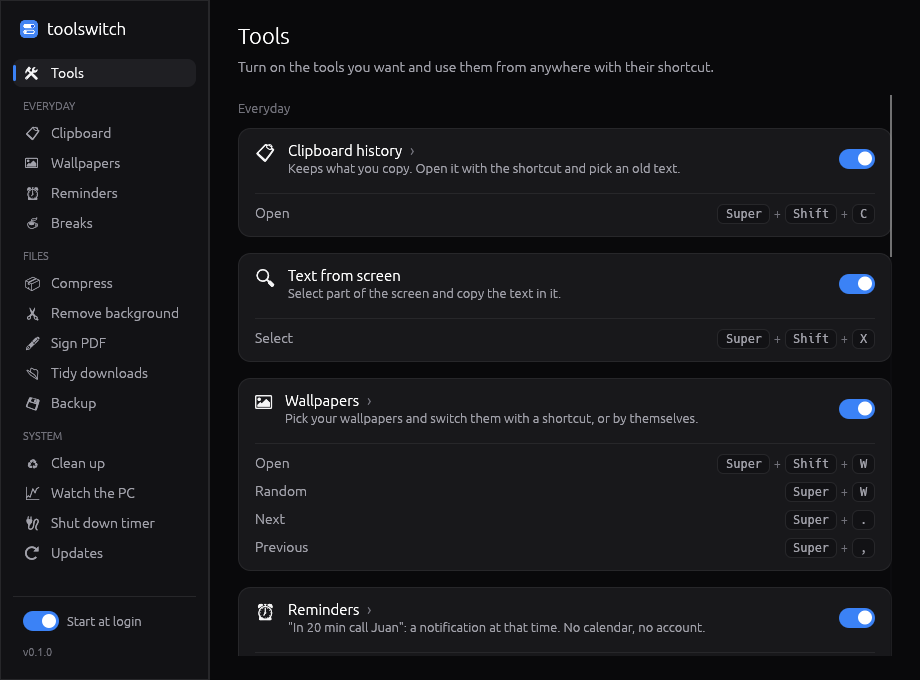
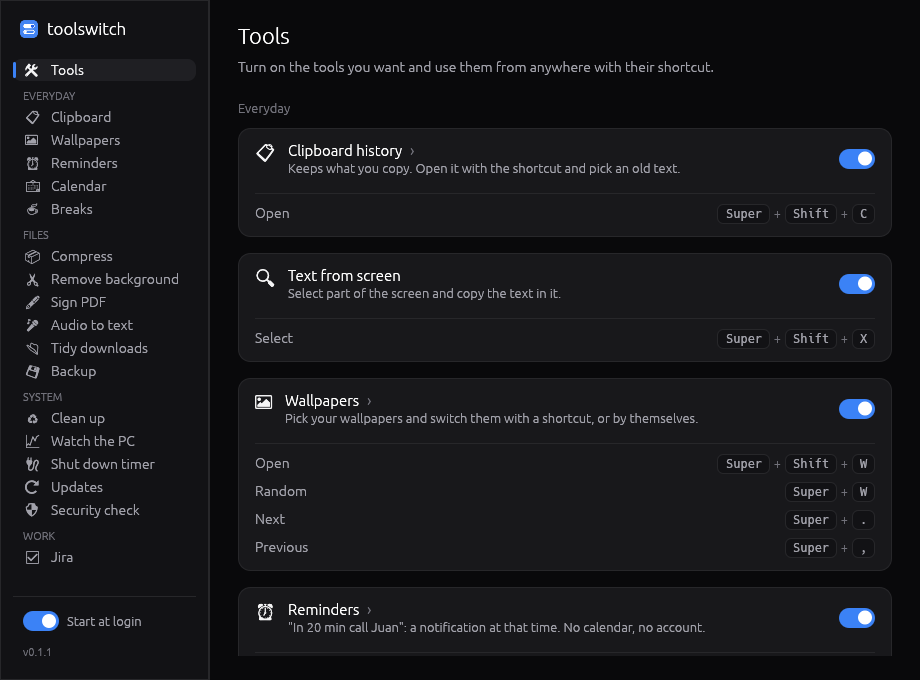
toolswitch 0.1.2: 18 tools (calendar, audio to text, security check, Jira)

Changed region(s): [[0.0304, 0.0926, 0.1826, 0.8338]]

diff --git a/toolswitch/index.html b/toolswitch/index.html
@@ -3,30 +3,30 @@
 <head>
 <meta charset="utf-8">
 <meta name="viewport" content="width=device-width, initial-scale=1">
-<title>toolswitch — 14 free everyday tools in one tiny app for Windows, Mac and Linux</title>
-<meta name="description" content="Free desktop app with 14 everyday tools: clipboard history, text from screen (OCR), wallpaper changer, reminders, breaks, image and PDF compressor, background remover, PDF signing, tidy downloads, backup, clean up, PC monitor, shut down timer and updates. Offline, no account. Windows, macOS and Linux.">
+<title>toolswitch — 18 free everyday tools in one tiny app for Windows, Mac and Linux</title>
+<meta name="description" content="Free desktop app with 18 everyday tools: clipboard history, text from screen (OCR), wallpaper changer, reminders, Google Calendar, breaks, image and PDF compressor, background remover, PDF signing, audio to text, tidy downloads, backup, clean up, PC monitor, shut down timer, updates, security check and Jira. Offline, no account. Windows, macOS and Linux.">
 <link rel="canonical" href="https://berchj.github.io/toolswitch/">
 <meta name="google-site-verification" content="UphS3aDveMRVv07rEHt7og08iggwHPVThZJLNYE1Gpw">
 <meta property="og:type" content="website">
-<meta property="og:title" content="toolswitch — 14 free everyday tools in one tiny app for Windows, Mac and Linux">
-<meta property="og:description" content="Free desktop app with 14 everyday tools: clipboard history, text from screen (OCR), wallpaper changer, reminders, breaks, image and PDF compressor, background remover, PDF signing, tidy downloads, backup, clean up, PC monitor, shut down timer and updates. Offline, no account. Windows, macOS and Linux.">
+<meta property="og:title" content="toolswitch — 18 free everyday tools in one tiny app for Windows, Mac and Linux">
+<meta property="og:description" content="Free desktop app with 18 everyday tools: clipboard history, text from screen (OCR), wallpaper changer, reminders, Google Calendar, breaks, image and PDF compressor, background remover, PDF signing, audio to text, tidy downloads, backup, clean up, PC monitor, shut down timer, updates, security check and Jira. Offline, no account. Windows, macOS and Linux.">
 <meta property="og:url" content="https://berchj.github.io/toolswitch/">
 <meta property="og:image" content="https://berchj.github.io/img/toolswitch-social.png">
 <meta name="twitter:card" content="summary_large_image">
 <link rel="icon" href="/img/toolswitch-64.png">
 <link rel="stylesheet" href="/style.css">
 <script>try{const t=localStorage.getItem("theme");if(t)document.documentElement.dataset.theme=t}catch{}</script>
-<script type="application/ld+json">{"@context": "https://schema.org", "@type": "SoftwareApplication", "name": "toolswitch", "description": "Free desktop app with 14 everyday tools: clipboard history, text from screen (OCR), wallpaper changer, reminders, breaks, image and PDF compressor, background remover, PDF signing, tidy downloads, backup, clean up, PC monitor, shut down timer and updates. Offline, no account. Windows, macOS and Linux.", "applicationCategory": "UtilitiesApplication", "operatingSystem": "Windows 10, Windows 11, macOS, Linux, Ubuntu", "offers": {"@type": "Offer", "price": "0", "priceCurrency": "USD"}, "downloadUrl": "https://github.com/berchj/toolswitch-releases/releases/latest", "installUrl": "https://github.com/berchj/toolswitch-releases/releases/latest", "url": "https://berchj.github.io/toolswitch/", "image": "https://berchj.github.io/img/toolswitch-icon.png", "screenshot": "https://berchj.github.io/img/toolswitch-screenshot.png", "isAccessibleForFree": true, "author": {"@type": "Person", "name": "berchj", "url": "https://github.com/berchj"}, "keywords": "powertoys alternative, desktop utilities, clipboard history, screen ocr, wallpaper changer, compress pdf offline, remove background offline, sign pdf, pomodoro timer, shutdown timer, linux utilities, windows utilities, mac utilities"}</script>
-<script type="application/ld+json">{"@context": "https://schema.org", "@type": "FAQPage", "mainEntity": [{"@type": "Question", "name": "What is toolswitch?", "acceptedAnswer": {"@type": "Answer", "text": "A small desktop app with 14 everyday tools — clipboard history, screen OCR, wallpapers, reminders, breaks, file compressor, background remover, PDF signing, tidy downloads, backup, clean up, PC monitor, shut down timer and updates — that waits in your tray."}}, {"@type": "Question", "name": "Is it like Microsoft PowerToys?", "acceptedAnswer": {"@type": "Answer", "text": "It’s in the same spirit, but it works the same on Windows, macOS and Linux, and it focuses on everyday tasks instead of developer tools."}}, {"@type": "Question", "name": "Does it upload my files or what I copy?", "acceptedAnswer": {"@type": "Answer", "text": "No. Everything runs on your computer. The AI models for text from screen and background removal are downloaded once and then work offline."}}, {"@type": "Question", "name": "How heavy is it?", "acceptedAnswer": {"@type": "Answer", "text": "The program is about 15 MB and uses about 90 MB of memory and almost no processor while it waits in the tray. A tool that’s off does nothing at all."}}, {"@type": "Question", "name": "Can I use only some of the tools?", "acceptedAnswer": {"@type": "Answer", "text": "Yes. Each tool has its own switch; the ones you turn off don’t run."}}, {"@type": "Question", "name": "Is toolswitch free?", "acceptedAnswer": {"@type": "Answer", "text": "Yes, it’s free to download and use. No account, no ads."}}]}</script>
+<script type="application/ld+json">{"@context": "https://schema.org", "@type": "SoftwareApplication", "name": "toolswitch", "description": "Free desktop app with 18 everyday tools: clipboard history, text from screen (OCR), wallpaper changer, reminders, Google Calendar, breaks, image and PDF compressor, background remover, PDF signing, audio to text, tidy downloads, backup, clean up, PC monitor, shut down timer, updates, security check and Jira. Offline, no account. Windows, macOS and Linux.", "applicationCategory": "UtilitiesApplication", "operatingSystem": "Windows 10, Windows 11, macOS, Linux, Ubuntu", "offers": {"@type": "Offer", "price": "0", "priceCurrency": "USD"}, "downloadUrl": "https://github.com/berchj/toolswitch-releases/releases/latest", "installUrl": "https://github.com/berchj/toolswitch-releases/releases/latest", "url": "https://berchj.github.io/toolswitch/", "image": "https://berchj.github.io/img/toolswitch-icon.png", "screenshot": "https://berchj.github.io/img/toolswitch-screenshot.png", "isAccessibleForFree": true, "author": {"@type": "Person", "name": "berchj", "url": "https://github.com/berchj"}, "keywords": "powertoys alternative, desktop utilities, clipboard history, screen ocr, wallpaper changer, compress pdf offline, remove background offline, sign pdf, pomodoro timer, shutdown timer, linux utilities, windows utilities, mac utilities"}</script>
+<script type="application/ld+json">{"@context": "https://schema.org", "@type": "FAQPage", "mainEntity": [{"@type": "Question", "name": "What is toolswitch?", "acceptedAnswer": {"@type": "Answer", "text": "A small desktop app with 18 everyday tools — clipboard history, screen OCR, wallpapers, reminders, Google Calendar, breaks, file compressor, background remover, PDF signing, audio to text, tidy downloads, backup, clean up, PC monitor, shut down timer, updates, security check and Jira — that waits in your tray."}}, {"@type": "Question", "name": "Is it like Microsoft PowerToys?", "acceptedAnswer": {"@type": "Answer", "text": "It’s in the same spirit, but it works the same on Windows, macOS and Linux, and it focuses on everyday tasks instead of developer tools."}}, {"@type": "Question", "name": "Does it upload my files or what I copy?", "acceptedAnswer": {"@type": "Answer", "text": "No. Everything runs on your computer. The AI models for text from screen, background removal and audio to text are downloaded once and then work offline. Only Calendar and Jira talk to Google and Atlassian, and Security check to Anthropic’s Claude if you add a key — and only when you connect them."}}, {"@type": "Question", "name": "How heavy is it?", "acceptedAnswer": {"@type": "Answer", "text": "The program is about 15 MB and uses about 90 MB of memory and almost no processor while it waits in the tray. A tool that’s off does nothing at all."}}, {"@type": "Question", "name": "Can I use only some of the tools?", "acceptedAnswer": {"@type": "Answer", "text": "Yes. Each tool has its own switch; the ones you turn off don’t run."}}, {"@type": "Question", "name": "Is toolswitch free?", "acceptedAnswer": {"@type": "Answer", "text": "Yes, it’s free to download and use. No account, no ads."}}]}</script>
 <meta name="keywords" content="powertoys alternative, desktop utilities, clipboard history, screen ocr, wallpaper changer, compress pdf offline, remove background offline, sign pdf, pomodoro timer, shutdown timer, linux utilities, windows utilities, mac utilities">
 </head>
 <body class="toolswitch">
-<nav><div class="wrap"><a class="home" href="/"><img src="/img/toolswitch-64.png" alt="">toolswitch</a><a href="/toolswitch/" aria-current=page>The 14 tools</a><a href="https://github.com/berchj/toolswitch-releases/releases/latest">Download</a></div></nav>
+<nav><div class="wrap"><a class="home" href="/"><img src="/img/toolswitch-64.png" alt="">toolswitch</a><a href="/toolswitch/" aria-current=page>The 18 tools</a><a href="https://github.com/berchj/toolswitch-releases/releases/latest">Download</a></div></nav>
 <main>
 <div class="hero wrap">
 <img class="icon" src="/img/toolswitch-icon.png" alt="toolswitch icon" width="96" height="96">
 <h1>toolswitch</h1>
-<p class="tagline">14 everyday tools in <strong>one tiny app</strong> that waits in your tray. Turn on the ones you want and use them from anywhere with a shortcut.</p>
+<p class="tagline">18 everyday tools in <strong>one tiny app</strong> that waits in your tray. Turn on the ones you want and use them from anywhere with a shortcut.</p>
 <div class="download" data-repo="berchj/toolswitch-releases">
 <a class="btn" href="https://github.com/berchj/toolswitch-releases/releases/latest">⬇ <span>Download toolswitch</span></a>
 <div class="others"><a href="https://github.com/berchj/toolswitch-releases/releases/latest">Windows, macOS and Linux</a></div>
@@ -36,8 +36,8 @@
 </div>
 
 <section class="wrap">
-<h2>14 tools, one app</h2>
-<div class="grid"><div class="card"><div class="emoji">📋</div><h3>Clipboard history</h3><p>Everything you copy, text and images, one shortcut away. Search it and pin favorites.</p></div><div class="card"><div class="emoji">🔍</div><h3>Text from screen</h3><p>Select part of the screen and copy the text in it (OCR, letters without accents for now).</p></div><div class="card"><div class="emoji">🖼</div><h3>Wallpapers</h3><p>Pick your wallpapers and switch them with a shortcut or every few minutes.</p></div><div class="card"><div class="emoji">⏰</div><h3>Reminders</h3><p>Write “in 20 min call Juan” and get a notification then. No calendar, no account.</p></div><div class="card"><div class="emoji">☕</div><h3>Breaks</h3><p>Rest your eyes every 20 minutes (20-20-20), or work with a Pomodoro timer.</p></div><div class="card"><div class="emoji">📦</div><h3>Compress files</h3><p>Smaller JPG, PNG, PDF, Word, PowerPoint and Excel files. Your originals stay untouched.</p></div><div class="card"><div class="emoji">✂</div><h3>Remove background</h3><p>Transparent PNG of any photo, with an AI model that runs on your computer.</p></div><div class="card"><div class="emoji">✒</div><h3>Sign PDF</h3><p>Draw your signature once and put it on PDFs without printing them.</p></div><div class="card"><div class="emoji">📂</div><h3>Tidy downloads</h3><p>Moves what you download to its folder by type, by itself. Every move can be undone.</p></div><div class="card"><div class="emoji">💾</div><h3>Backup</h3><p>Copies the folders you pick to another disk every day. Only what changed.</p></div><div class="card"><div class="emoji">♻</div><h3>Clean up</h3><p>Shows what takes space — trash, caches, old downloads, big files — and frees it.</p></div><div class="card"><div class="emoji">📈</div><h3>Watch the PC</h3><p>Warns when a disk is almost full or a program gets stuck eating the processor or memory.</p></div><div class="card"><div class="emoji">🔌</div><h3>Shut down timer</h3><p>Shut down, restart or sleep later, at a time, or when the downloads finish.</p></div><div class="card"><div class="emoji">⟳</div><h3>Updates</h3><p>Updates the system and your apps with one click, and tells you when there’s something new.</p></div></div>
+<h2>18 tools, one app</h2>
+<div class="grid"><div class="card"><div class="emoji">📋</div><h3>Clipboard history</h3><p>Everything you copy, text and images, one shortcut away. Search it and pin favorites.</p></div><div class="card"><div class="emoji">🔍</div><h3>Text from screen</h3><p>Select part of the screen and copy the text in it (OCR). Reads accents and ñ, in 30+ languages.</p></div><div class="card"><div class="emoji">🖼</div><h3>Wallpapers</h3><p>Pick your wallpapers and switch them with a shortcut or every few minutes.</p></div><div class="card"><div class="emoji">⏰</div><h3>Reminders</h3><p>Write “in 20 min call Juan” and get a notification then. No calendar, no account.</p></div><div class="card"><div class="emoji">📅</div><h3>Calendar</h3><p>Your Google Calendar: today’s events, new ones with guests, and a heads-up 10 minutes before each.</p></div><div class="card"><div class="emoji">☕</div><h3>Breaks</h3><p>Rest your eyes every 20 minutes (20-20-20), or work with a Pomodoro timer.</p></div><div class="card"><div class="emoji">📦</div><h3>Compress files</h3><p>Smaller JPG, PNG, PDF, Word, PowerPoint and Excel files. Your originals stay untouched.</p></div><div class="card"><div class="emoji">✂</div><h3>Remove background</h3><p>Transparent PNG of any photo, with an AI model that runs on your computer.</p></div><div class="card"><div class="emoji">✒</div><h3>Sign PDF</h3><p>Draw your signature once, drag it to its place on the page and sign PDFs without printing them.</p></div><div class="card"><div class="emoji">🎤</div><h3>Audio to text</h3><p>Voice notes, recordings and videos into text, offline, in ~100 languages (Whisper).</p></div><div class="card"><div class="emoji">📂</div><h3>Tidy downloads</h3><p>Moves what you download to its folder by type, by itself. Every move can be undone.</p></div><div class="card"><div class="emoji">💾</div><h3>Backup</h3><p>Copies the folders you pick to another disk every day. Only what changed.</p></div><div class="card"><div class="emoji">♻</div><h3>Clean up</h3><p>Shows what takes space — trash, caches, old downloads, big files — and frees it.</p></div><div class="card"><div class="emoji">📈</div><h3>Watch the PC</h3><p>Warns when a disk is almost full or a program gets stuck eating the processor or memory.</p></div><div class="card"><div class="emoji">🔌</div><h3>Shut down timer</h3><p>Shut down, restart or sleep later, at a time, or when the downloads finish.</p></div><div class="card"><div class="emoji">🛡</div><h3>Security check</h3><p>Finds what’s risky in how your computer is set up — firewall, open ports, updates, encryption — and how to fix it. Claude can write the plan.</p></div><div class="card"><div class="emoji">☑</div><h3>Jira</h3><p>The Jira issues assigned to you, and a heads-up when you get a new one.</p></div><div class="card"><div class="emoji">⟳</div><h3>Updates</h3><p>Updates the system and your apps with one click, and tells you when there’s something new.</p></div></div>
 </section>
 
 <section class="wrap">
@@ -48,7 +48,7 @@
 
 <section class="wrap">
 <h2>Questions</h2>
-<details><summary>What is toolswitch?</summary><p>A small desktop app with 14 everyday tools — clipboard history, screen OCR, wallpapers, reminders, breaks, file compressor, background remover, PDF signing, tidy downloads, backup, clean up, PC monitor, shut down timer and updates — that waits in your tray.</p></details><details><summary>Is it like Microsoft PowerToys?</summary><p>It’s in the same spirit, but it works the same on Windows, macOS and Linux, and it focuses on everyday tasks instead of developer tools.</p></details><details><summary>Does it upload my files or what I copy?</summary><p>No. Everything runs on your computer. The AI models for text from screen and background removal are downloaded once and then work offline.</p></details><details><summary>How heavy is it?</summary><p>The program is about 15 MB and uses about 90 MB of memory and almost no processor while it waits in the tray. A tool that’s off does nothing at all.</p></details><details><summary>Can I use only some of the tools?</summary><p>Yes. Each tool has its own switch; the ones you turn off don’t run.</p></details><details><summary>Is toolswitch free?</summary><p>Yes, it’s free to download and use. No account, no ads.</p></details>
+<details><summary>What is toolswitch?</summary><p>A small desktop app with 18 everyday tools — clipboard history, screen OCR, wallpapers, reminders, Google Calendar, breaks, file compressor, background remover, PDF signing, audio to text, tidy downloads, backup, clean up, PC monitor, shut down timer, updates, security check and Jira — that waits in your tray.</p></details><details><summary>Is it like Microsoft PowerToys?</summary><p>It’s in the same spirit, but it works the same on Windows, macOS and Linux, and it focuses on everyday tasks instead of developer tools.</p></details><details><summary>Does it upload my files or what I copy?</summary><p>No. Everything runs on your computer. The AI models for text from screen, background removal and audio to text are downloaded once and then work offline. Only Calendar and Jira talk to Google and Atlassian, and Security check to Anthropic’s Claude if you add a key — and only when you connect them.</p></details><details><summary>How heavy is it?</summary><p>The program is about 15 MB and uses about 90 MB of memory and almost no processor while it waits in the tray. A tool that’s off does nothing at all.</p></details><details><summary>Can I use only some of the tools?</summary><p>Yes. Each tool has its own switch; the ones you turn off don’t run.</p></details><details><summary>Is toolswitch free?</summary><p>Yes, it’s free to download and use. No account, no ads.</p></details>
 </section>
 
 </main>

diff --git a/index.html b/index.html
@@ -3,13 +3,13 @@
 <head>
 <meta charset="utf-8">
 <meta name="viewport" content="width=device-width, initial-scale=1">
-<title>toolswitch — 14 free everyday tools in one app for Windows, Mac and Linux</title>
-<meta name="description" content="Free desktop app with 14 everyday tools: clipboard history, text from screen (OCR), wallpaper changer, reminders, breaks, image and PDF compressor, background remover, PDF signing, tidy downloads, backup, clean up, PC monitor, shut down timer and updates. Offline, no account. Windows, macOS and Linux.">
+<title>toolswitch — 18 free everyday tools in one app for Windows, Mac and Linux</title>
+<meta name="description" content="Free desktop app with 18 everyday tools: clipboard history, text from screen (OCR), wallpaper changer, reminders, Google Calendar, breaks, image and PDF compressor, background remover, PDF signing, audio to text, tidy downloads, backup, clean up, PC monitor, shut down timer, updates, security check and Jira. Offline, no account. Windows, macOS and Linux.">
 <link rel="canonical" href="https://berchj.github.io/">
 <meta name="google-site-verification" content="UphS3aDveMRVv07rEHt7og08iggwHPVThZJLNYE1Gpw">
 <meta property="og:type" content="website">
-<meta property="og:title" content="toolswitch — 14 free everyday tools in one app for Windows, Mac and Linux">
-<meta property="og:description" content="Free desktop app with 14 everyday tools: clipboard history, text from screen (OCR), wallpaper changer, reminders, breaks, image and PDF compressor, background remover, PDF signing, tidy downloads, backup, clean up, PC monitor, shut down timer and updates. Offline, no account. Windows, macOS and Linux.">
+<meta property="og:title" content="toolswitch — 18 free everyday tools in one app for Windows, Mac and Linux">
+<meta property="og:description" content="Free desktop app with 18 everyday tools: clipboard history, text from screen (OCR), wallpaper changer, reminders, Google Calendar, breaks, image and PDF compressor, background remover, PDF signing, audio to text, tidy downloads, backup, clean up, PC monitor, shut down timer, updates, security check and Jira. Offline, no account. Windows, macOS and Linux.">
 <meta property="og:url" content="https://berchj.github.io/">
 <meta property="og:image" content="https://berchj.github.io/img/toolswitch-social.png">
 <meta name="twitter:card" content="summary_large_image">
@@ -19,21 +19,21 @@
 <script type="application/ld+json">{"@context": "https://schema.org", "@type": "ItemList", "name": "toolswitch", "itemListElement": [{"@type": "ListItem", "position": 1, "url": "https://berchj.github.io/toolswitch/", "name": "toolswitch"}]}</script>
 </head>
 <body class="toolswitch">
-<nav><div class="wrap"><a class="home" href="/"><img src="/img/toolswitch-64.png" alt="">toolswitch</a><a href="/toolswitch/">The 14 tools</a><a href="https://github.com/berchj/toolswitch-releases/releases/latest">Download</a></div></nav>
+<nav><div class="wrap"><a class="home" href="/"><img src="/img/toolswitch-64.png" alt="">toolswitch</a><a href="/toolswitch/">The 18 tools</a><a href="https://github.com/berchj/toolswitch-releases/releases/latest">Download</a></div></nav>
 <main>
 <div class="hero wrap">
 <img class="icon" src="/img/toolswitch-icon.png" alt="toolswitch icon" width="96" height="96">
 <h1>toolswitch</h1>
-<p class="tagline">14 everyday tools in <strong>one tiny app</strong> that waits in your tray. Turn on the ones you want and use them from anywhere with a shortcut.</p>
+<p class="tagline">18 everyday tools in <strong>one tiny app</strong> that waits in your tray. Turn on the ones you want and use them from anywhere with a shortcut.</p>
 <div class="download" data-repo="berchj/toolswitch-releases">
 <a class="btn" href="https://github.com/berchj/toolswitch-releases/releases/latest">⬇ <span>Download toolswitch</span></a>
 <div class="others"><a href="https://github.com/berchj/toolswitch-releases/releases/latest">Windows, macOS and Linux</a></div>
 <div class="npm version">Free · no account · no ads</div>
 </div>
-<p><a href="/toolswitch/">See the 14 tools →</a></p>
+<p><a href="/toolswitch/">See the 18 tools →</a></p>
 </div>
 <section class="wrap">
-<div class="grid"><div class="card"><div class="emoji">📋</div><h3>Clipboard history</h3><p>Everything you copy, text and images, one shortcut away. Search it and pin favorites.</p></div><div class="card"><div class="emoji">🔍</div><h3>Text from screen</h3><p>Select part of the screen and copy the text in it (OCR, letters without accents for now).</p></div><div class="card"><div class="emoji">🖼</div><h3>Wallpapers</h3><p>Pick your wallpapers and switch them with a shortcut or every few minutes.</p></div><div class="card"><div class="emoji">⏰</div><h3>Reminders</h3><p>Write “in 20 min call Juan” and get a notification then. No calendar, no account.</p></div><div class="card"><div class="emoji">☕</div><h3>Breaks</h3><p>Rest your eyes every 20 minutes (20-20-20), or work with a Pomodoro timer.</p></div><div class="card"><div class="emoji">📦</div><h3>Compress files</h3><p>Smaller JPG, PNG, PDF, Word, PowerPoint and Excel files. Your originals stay untouched.</p></div><div class="card"><div class="emoji">✂</div><h3>Remove background</h3><p>Transparent PNG of any photo, with an AI model that runs on your computer.</p></div><div class="card"><div class="emoji">✒</div><h3>Sign PDF</h3><p>Draw your signature once and put it on PDFs without printing them.</p></div><div class="card"><div class="emoji">📂</div><h3>Tidy downloads</h3><p>Moves what you download to its folder by type, by itself. Every move can be undone.</p></div><div class="card"><div class="emoji">💾</div><h3>Backup</h3><p>Copies the folders you pick to another disk every day. Only what changed.</p></div><div class="card"><div class="emoji">♻</div><h3>Clean up</h3><p>Shows what takes space — trash, caches, old downloads, big files — and frees it.</p></div><div class="card"><div class="emoji">📈</div><h3>Watch the PC</h3><p>Warns when a disk is almost full or a program gets stuck eating the processor or memory.</p></div><div class="card"><div class="emoji">🔌</div><h3>Shut down timer</h3><p>Shut down, restart or sleep later, at a time, or when the downloads finish.</p></div><div class="card"><div class="emoji">⟳</div><h3>Updates</h3><p>Updates the system and your apps with one click, and tells you when there’s something new.</p></div></div>
+<div class="grid"><div class="card"><div class="emoji">📋</div><h3>Clipboard history</h3><p>Everything you copy, text and images, one shortcut away. Search it and pin favorites.</p></div><div class="card"><div class="emoji">🔍</div><h3>Text from screen</h3><p>Select part of the screen and copy the text in it (OCR). Reads accents and ñ, in 30+ languages.</p></div><div class="card"><div class="emoji">🖼</div><h3>Wallpapers</h3><p>Pick your wallpapers and switch them with a shortcut or every few minutes.</p></div><div class="card"><div class="emoji">⏰</div><h3>Reminders</h3><p>Write “in 20 min call Juan” and get a notification then. No calendar, no account.</p></div><div class="card"><div class="emoji">📅</div><h3>Calendar</h3><p>Your Google Calendar: today’s events, new ones with guests, and a heads-up 10 minutes before each.</p></div><div class="card"><div class="emoji">☕</div><h3>Breaks</h3><p>Rest your eyes every 20 minutes (20-20-20), or work with a Pomodoro timer.</p></div><div class="card"><div class="emoji">📦</div><h3>Compress files</h3><p>Smaller JPG, PNG, PDF, Word, PowerPoint and Excel files. Your originals stay untouched.</p></div><div class="card"><div class="emoji">✂</div><h3>Remove background</h3><p>Transparent PNG of any photo, with an AI model that runs on your computer.</p></div><div class="card"><div class="emoji">✒</div><h3>Sign PDF</h3><p>Draw your signature once, drag it to its place on the page and sign PDFs without printing them.</p></div><div class="card"><div class="emoji">🎤</div><h3>Audio to text</h3><p>Voice notes, recordings and videos into text, offline, in ~100 languages (Whisper).</p></div><div class="card"><div class="emoji">📂</div><h3>Tidy downloads</h3><p>Moves what you download to its folder by type, by itself. Every move can be undone.</p></div><div class="card"><div class="emoji">💾</div><h3>Backup</h3><p>Copies the folders you pick to another disk every day. Only what changed.</p></div><div class="card"><div class="emoji">♻</div><h3>Clean up</h3><p>Shows what takes space — trash, caches, old downloads, big files — and frees it.</p></div><div class="card"><div class="emoji">📈</div><h3>Watch the PC</h3><p>Warns when a disk is almost full or a program gets stuck eating the processor or memory.</p></div><div class="card"><div class="emoji">🔌</div><h3>Shut down timer</h3><p>Shut down, restart or sleep later, at a time, or when the downloads finish.</p></div><div class="card"><div class="emoji">🛡</div><h3>Security check</h3><p>Finds what’s risky in how your computer is set up — firewall, open ports, updates, encryption — and how to fix it. Claude can write the plan.</p></div><div class="card"><div class="emoji">☑</div><h3>Jira</h3><p>The Jira issues assigned to you, and a heads-up when you get a new one.</p></div><div class="card"><div class="emoji">⟳</div><h3>Updates</h3><p>Updates the system and your apps with one click, and tells you when there’s something new.</p></div></div>
 <p class="note">wallswitch, clipswitch and tinyswitch are now tools inside toolswitch.</p>
 </section>
 </main>

diff --git a/wallswitch/index.html b/wallswitch/index.html
@@ -20,12 +20,12 @@
 <meta name="keywords" content="wallpaper changer, automatic wallpaper rotation, wallpaper slideshow, change wallpaper shortcut, ubuntu wallpaper changer, windows 11 wallpaper changer">
 </head>
 <body class="toolswitch">
-<nav><div class="wrap"><a class="home" href="/"><img src="/img/toolswitch-64.png" alt="">toolswitch</a><a href="/toolswitch/">The 14 tools</a><a href="https://github.com/berchj/toolswitch-releases/releases/latest">Download</a></div></nav>
+<nav><div class="wrap"><a class="home" href="/"><img src="/img/toolswitch-64.png" alt="">toolswitch</a><a href="/toolswitch/">The 18 tools</a><a href="https://github.com/berchj/toolswitch-releases/releases/latest">Download</a></div></nav>
 <main>
 <div class="hero wrap">
 <img class="icon" src="/img/toolswitch-icon.png" alt="toolswitch icon" width="96" height="96">
 <h1>wallswitch is now part of toolswitch</h1>
-<p class="tagline">The wallpaper changer you know is now the <strong>Wallpapers</strong> tool inside <a href="/toolswitch/">toolswitch</a>: one tiny app with 14 everyday tools for Windows, macOS and Linux.</p>
+<p class="tagline">The wallpaper changer you know is now the <strong>Wallpapers</strong> tool inside <a href="/toolswitch/">toolswitch</a>: one tiny app with 18 everyday tools for Windows, macOS and Linux.</p>
 <div class="download" data-repo="berchj/toolswitch-releases">
 <a class="btn" href="https://github.com/berchj/toolswitch-releases/releases/latest">⬇ <span>Download toolswitch</span></a>
 <div class="others"><a href="https://github.com/berchj/toolswitch-releases/releases/latest">Windows, macOS and Linux</a></div>
@@ -36,7 +36,7 @@
 <section class="wrap">
 <h2>Wallpapers in toolswitch</h2>
 <div class="grid"><div class="card"><div class="emoji">🖼</div><h3>Your wallpapers in a grid</h3><p>Add folders or single images; click to add them to the rotation, double-click to set one now.</p></div><div class="card"><div class="emoji">⏱</div><h3>Automatic change</h3><p>They rotate by themselves every few minutes or hours — you pick the interval.</p></div><div class="card"><div class="emoji">⌨</div><h3>Keyboard shortcuts</h3><p>Random, next and previous wallpaper from anywhere. Record your own keys.</p></div></div>
-<p>Plus 13 more tools — clipboard, text from screen, reminders, breaks, background remover, PDF signing and more. <a href="/toolswitch/">See them all</a>.</p>
+<p>Plus 17 more tools — clipboard, text from screen, reminders, breaks, background remover, PDF signing and more. <a href="/toolswitch/">See them all</a>.</p>
 <p class="note">First launch: the installers aren’t signed with a paid certificate yet. On Windows click <b>More info → Run anyway</b>; on macOS open <b>System Settings → Privacy &amp; Security → Open Anyway</b>.</p>
 </section>
 </main>

diff --git a/tinyswitch/index.html b/tinyswitch/index.html
@@ -20,12 +20,12 @@
 <meta name="keywords" content="compress images offline, compress pdf without uploading, reduce pdf size, compress powerpoint, reduce word file size, tinypng alternative, image compressor windows mac linux">
 </head>
 <body class="toolswitch">
-<nav><div class="wrap"><a class="home" href="/"><img src="/img/toolswitch-64.png" alt="">toolswitch</a><a href="/toolswitch/">The 14 tools</a><a href="https://github.com/berchj/toolswitch-releases/releases/latest">Download</a></div></nav>
+<nav><div class="wrap"><a class="home" href="/"><img src="/img/toolswitch-64.png" alt="">toolswitch</a><a href="/toolswitch/">The 18 tools</a><a href="https://github.com/berchj/toolswitch-releases/releases/latest">Download</a></div></nav>
 <main>
 <div class="hero wrap">
 <img class="icon" src="/img/toolswitch-icon.png" alt="toolswitch icon" width="96" height="96">
 <h1>tinyswitch is now part of toolswitch</h1>
-<p class="tagline">The image & document compressor you know is now the <strong>Compress files</strong> tool inside <a href="/toolswitch/">toolswitch</a>: one tiny app with 14 everyday tools for Windows, macOS and Linux.</p>
+<p class="tagline">The image & document compressor you know is now the <strong>Compress files</strong> tool inside <a href="/toolswitch/">toolswitch</a>: one tiny app with 18 everyday tools for Windows, macOS and Linux.</p>
 <div class="download" data-repo="berchj/toolswitch-releases">
 <a class="btn" href="https://github.com/berchj/toolswitch-releases/releases/latest">⬇ <span>Download toolswitch</span></a>
 <div class="others"><a href="https://github.com/berchj/toolswitch-releases/releases/latest">Windows, macOS and Linux</a></div>
@@ -36,7 +36,7 @@
 <section class="wrap">
 <h2>Compress files in toolswitch</h2>
 <div class="grid"><div class="card"><div class="emoji">🖼</div><h3>Images</h3><p>JPG and PNG (smart palette, like TinyPNG).</p></div><div class="card"><div class="emoji">📄</div><h3>PDF, Word, PowerPoint, Excel</h3><p>Shrinks the photos inside; text and layout stay the same.</p></div><div class="card"><div class="emoji">🔒</div><h3>Offline</h3><p>Your files never leave your computer. A smaller copy is saved next to each one as name-min.</p></div></div>
-<p>Plus 13 more tools — clipboard, text from screen, reminders, breaks, background remover, PDF signing and more. <a href="/toolswitch/">See them all</a>.</p>
+<p>Plus 17 more tools — clipboard, text from screen, reminders, breaks, background remover, PDF signing and more. <a href="/toolswitch/">See them all</a>.</p>
 <p class="note">First launch: the installers aren’t signed with a paid certificate yet. On Windows click <b>More info → Run anyway</b>; on macOS open <b>System Settings → Privacy &amp; Security → Open Anyway</b>.</p>
 </section>
 </main>

diff --git a/clipswitch/index.html b/clipswitch/index.html
@@ -20,12 +20,12 @@
 <meta name="keywords" content="clipboard manager, clipboard history, copy paste history, clipboard history linux, clipboard manager mac free, ditto alternative, windows clipboard history alternative">
 </head>
 <body class="toolswitch">
-<nav><div class="wrap"><a class="home" href="/"><img src="/img/toolswitch-64.png" alt="">toolswitch</a><a href="/toolswitch/">The 14 tools</a><a href="https://github.com/berchj/toolswitch-releases/releases/latest">Download</a></div></nav>
+<nav><div class="wrap"><a class="home" href="/"><img src="/img/toolswitch-64.png" alt="">toolswitch</a><a href="/toolswitch/">The 18 tools</a><a href="https://github.com/berchj/toolswitch-releases/releases/latest">Download</a></div></nav>
 <main>
 <div class="hero wrap">
 <img class="icon" src="/img/toolswitch-icon.png" alt="toolswitch icon" width="96" height="96">
 <h1>clipswitch is now part of toolswitch</h1>
-<p class="tagline">The clipboard manager you know is now the <strong>Clipboard history</strong> tool inside <a href="/toolswitch/">toolswitch</a>: one tiny app with 14 everyday tools for Windows, macOS and Linux.</p>
+<p class="tagline">The clipboard manager you know is now the <strong>Clipboard history</strong> tool inside <a href="/toolswitch/">toolswitch</a>: one tiny app with 18 everyday tools for Windows, macOS and Linux.</p>
 <div class="download" data-repo="berchj/toolswitch-releases">
 <a class="btn" href="https://github.com/berchj/toolswitch-releases/releases/latest">⬇ <span>Download toolswitch</span></a>
 <div class="others"><a href="https://github.com/berchj/toolswitch-releases/releases/latest">Windows, macOS and Linux</a></div>
@@ -36,7 +36,7 @@
 <section class="wrap">
 <h2>Clipboard history in toolswitch</h2>
 <div class="grid"><div class="card"><div class="emoji">📋</div><h3>Clipboard history</h3><p>What you copied, newest first. Search it, use the arrows and Enter.</p></div><div class="card"><div class="emoji">🖼</div><h3>Images too</h3><p>Screenshots and copied pictures, with a preview (on Wayland, text only for now).</p></div><div class="card"><div class="emoji">⭐</div><h3>Pin favorites</h3><p>Pinned entries stay at the top and are never deleted.</p></div></div>
-<p>Plus 13 more tools — clipboard, text from screen, reminders, breaks, background remover, PDF signing and more. <a href="/toolswitch/">See them all</a>.</p>
+<p>Plus 17 more tools — clipboard, text from screen, reminders, breaks, background remover, PDF signing and more. <a href="/toolswitch/">See them all</a>.</p>
 <p class="note">First launch: the installers aren’t signed with a paid certificate yet. On Windows click <b>More info → Run anyway</b>; on macOS open <b>System Settings → Privacy &amp; Security → Open Anyway</b>.</p>
 </section>
 </main>

diff --git a/build.py b/build.py
@@ -25,25 +25,29 @@ LICENSE_TEXT = 'Free · open source · MIT license' if OPEN_SOURCE else 'Free ·
 TOOLSWITCH = {
     'name': 'toolswitch',
     'kind': 'Everyday tools in one app',
-    'title': 'toolswitch — 14 free everyday tools in one tiny app for Windows, Mac and Linux',
-    'description': 'Free desktop app with 14 everyday tools: clipboard history, text from screen (OCR), wallpaper changer, reminders, breaks, image and PDF compressor, background remover, PDF signing, tidy downloads, backup, clean up, PC monitor, shut down timer and updates. Offline, no account. Windows, macOS and Linux.',
-    'tagline': '14 everyday tools in <strong>one tiny app</strong> that waits in your tray. Turn on the ones you want and use them from anywhere with a shortcut.',
+    'title': 'toolswitch — 18 free everyday tools in one tiny app for Windows, Mac and Linux',
+    'description': 'Free desktop app with 18 everyday tools: clipboard history, text from screen (OCR), wallpaper changer, reminders, Google Calendar, breaks, image and PDF compressor, background remover, PDF signing, audio to text, tidy downloads, backup, clean up, PC monitor, shut down timer, updates, security check and Jira. Offline, no account. Windows, macOS and Linux.',
+    'tagline': '18 everyday tools in <strong>one tiny app</strong> that waits in your tray. Turn on the ones you want and use them from anywhere with a shortcut.',
     'category': 'UtilitiesApplication',
     'keywords': 'powertoys alternative, desktop utilities, clipboard history, screen ocr, wallpaper changer, compress pdf offline, remove background offline, sign pdf, pomodoro timer, shutdown timer, linux utilities, windows utilities, mac utilities',
     'features': [
         ('📋', 'Clipboard history', 'Everything you copy, text and images, one shortcut away. Search it and pin favorites.'),
-        ('🔍', 'Text from screen', 'Select part of the screen and copy the text in it (OCR, letters without accents for now).'),
+        ('🔍', 'Text from screen', 'Select part of the screen and copy the text in it (OCR). Reads accents and ñ, in 30+ languages.'),
         ('🖼', 'Wallpapers', 'Pick your wallpapers and switch them with a shortcut or every few minutes.'),
         ('⏰', 'Reminders', 'Write “in 20 min call Juan” and get a notification then. No calendar, no account.'),
+        ('📅', 'Calendar', 'Your Google Calendar: today’s events, new ones with guests, and a heads-up 10 minutes before each.'),
         ('☕', 'Breaks', 'Rest your eyes every 20 minutes (20-20-20), or work with a Pomodoro timer.'),
         ('📦', 'Compress files', 'Smaller JPG, PNG, PDF, Word, PowerPoint and Excel files. Your originals stay untouched.'),
         ('✂', 'Remove background', 'Transparent PNG of any photo, with an AI model that runs on your computer.'),
-        ('✒', 'Sign PDF', 'Draw your signature once and put it on PDFs without printing them.'),
+        ('✒', 'Sign PDF', 'Draw your signature once, drag it to its place on the page and sign PDFs without printing them.'),
+        ('🎤', 'Audio to text', 'Voice notes, recordings and videos into text, offline, in ~100 languages (Whisper).'),
         ('📂', 'Tidy downloads', 'Moves what you download to its folder by type, by itself. Every move can be undone.'),
         ('💾', 'Backup', 'Copies the folders you pick to another disk every day. Only what changed.'),
         ('♻', 'Clean up', 'Shows what takes space — trash, caches, old downloads, big files — and frees it.'),
         ('📈', 'Watch the PC', 'Warns when a disk is almost full or a program gets stuck eating the processor or memory.'),
         ('🔌', 'Shut down timer', 'Shut down, restart or sleep later, at a time, or when the downloads finish.'),
+        ('🛡', 'Security check', 'Finds what’s risky in how your computer is set up — firewall, open ports, updates, encryption — and how to fix it. Claude can write the plan.'),
+        ('☑', 'Jira', 'The Jira issues assigned to you, and a heads-up when you get a new one.'),
         ('⟳', 'Updates', 'Updates the system and your apps with one click, and tells you when there’s something new.'),
     ],
     'steps': [
@@ -53,9 +57,9 @@ TOOLSWITCH = {
         'Change any shortcut by clicking it and pressing the keys you like.',
     ],
     'faq': [
-        ('What is toolswitch?', 'A small desktop app with 14 everyday tools — clipboard history, screen OCR, wallpapers, reminders, breaks, file compressor, background remover, PDF signing, tidy downloads, backup, clean up, PC monitor, shut down timer and updates — that waits in your tray.'),
+        ('What is toolswitch?', 'A small desktop app with 18 everyday tools — clipboard history, screen OCR, wallpapers, reminders, Google Calendar, breaks, file compressor, background remover, PDF signing, audio to text, tidy downloads, backup, clean up, PC monitor, shut down timer, updates, security check and Jira — that waits in your tray.'),
         ('Is it like Microsoft PowerToys?', 'It’s in the same spirit, but it works the same on Windows, macOS and Linux, and it focuses on everyday tasks instead of developer tools.'),
-        ('Does it upload my files or what I copy?', 'No. Everything runs on your computer. The AI models for text from screen and background removal are downloaded once and then work offline.'),
+        ('Does it upload my files or what I copy?', 'No. Everything runs on your computer. The AI models for text from screen, background removal and audio to text are downloaded once and then work offline. Only Calendar and Jira talk to Google and Atlassian, and Security check to Anthropic’s Claude if you add a key — and only when you connect them.'),
         ('How heavy is it?', 'The program is about 15 MB and uses about 90 MB of memory and almost no processor while it waits in the tray. A tool that’s off does nothing at all.'),
         ('Can I use only some of the tools?', 'Yes. Each tool has its own switch; the ones you turn off don’t run.'),
         ('Is toolswitch free?', 'Yes, it’s free to download and use. No account, no ads.'),
@@ -134,7 +138,7 @@ def head(title, description, url, image, extra=''):
 
 def nav(current=None):
     current_attr = ' aria-current=page' if current == 'toolswitch' else ''
-    return f'<nav><div class="wrap"><a class="home" href="/"><img src="/img/toolswitch-64.png" alt="">toolswitch</a><a href="/toolswitch/"{current_attr}>The 14 tools</a><a href="{REPO_URL}/releases/latest">Download</a></div></nav>'
+    return f'<nav><div class="wrap"><a class="home" href="/"><img src="/img/toolswitch-64.png" alt="">toolswitch</a><a href="/toolswitch/"{current_attr}>The 18 tools</a><a href="{REPO_URL}/releases/latest">Download</a></div></nav>'
 
 
 def footer():
@@ -216,7 +220,7 @@ def toolswitch_page():
 </div>
 
 <section class="wrap">
-<h2>14 tools, one app</h2>
+<h2>18 tools, one app</h2>
 <div class="grid">{cards(app['features'])}</div>
 </section>
 
@@ -250,14 +254,14 @@ def legacy_page(app):
 <div class="hero wrap">
 <img class="icon" src="/img/toolswitch-icon.png" alt="toolswitch icon" width="96" height="96">
 <h1>{n} is now part of toolswitch</h1>
-<p class="tagline">The {app['kind'].lower()} you know is now the <strong>{app['tool']}</strong> tool inside <a href="/toolswitch/">toolswitch</a>: one tiny app with 14 everyday tools for Windows, macOS and Linux.</p>
+<p class="tagline">The {app['kind'].lower()} you know is now the <strong>{app['tool']}</strong> tool inside <a href="/toolswitch/">toolswitch</a>: one tiny app with 18 everyday tools for Windows, macOS and Linux.</p>
 {download_box()}
 </div>
 
 <section class="wrap">
 <h2>{app['tool']} in toolswitch</h2>
 <div class="grid">{cards(app['features'])}</div>
-<p>Plus 13 more tools — clipboard, text from screen, reminders, breaks, background remover, PDF signing and more. <a href="/toolswitch/">See them all</a>.</p>
+<p>Plus 17 more tools — clipboard, text from screen, reminders, breaks, background remover, PDF signing and more. <a href="/toolswitch/">See them all</a>.</p>
 {NOTE}
 </section>
 </main>
@@ -269,7 +273,7 @@ def legacy_page(app):
 
 
 def home_page():
-    title = 'toolswitch — 14 free everyday tools in one app for Windows, Mac and Linux'
+    title = 'toolswitch — 18 free everyday tools in one app for Windows, Mac and Linux'
     description = TOOLSWITCH['description']
     ld = {
         '@context': 'https://schema.org',
@@ -286,7 +290,7 @@ def home_page():
 <h1>toolswitch</h1>
 <p class="tagline">{TOOLSWITCH['tagline']}</p>
 {download_box()}
-<p><a href="/toolswitch/">See the 14 tools →</a></p>
+<p><a href="/toolswitch/">See the 18 tools →</a></p>
 </div>
 <section class="wrap">
 <div class="grid">{cards(TOOLSWITCH['features'])}</div>
